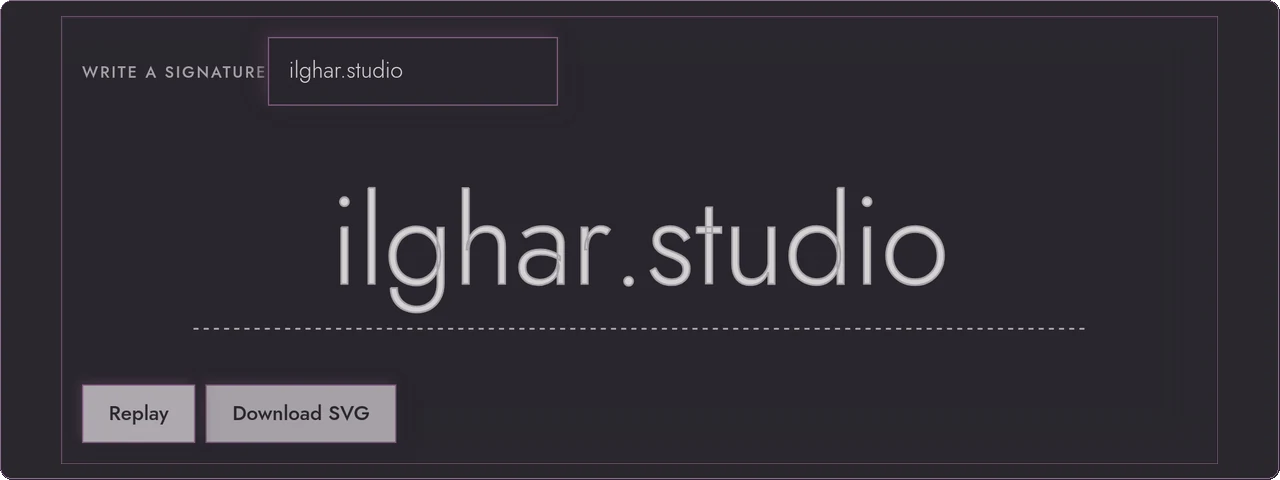
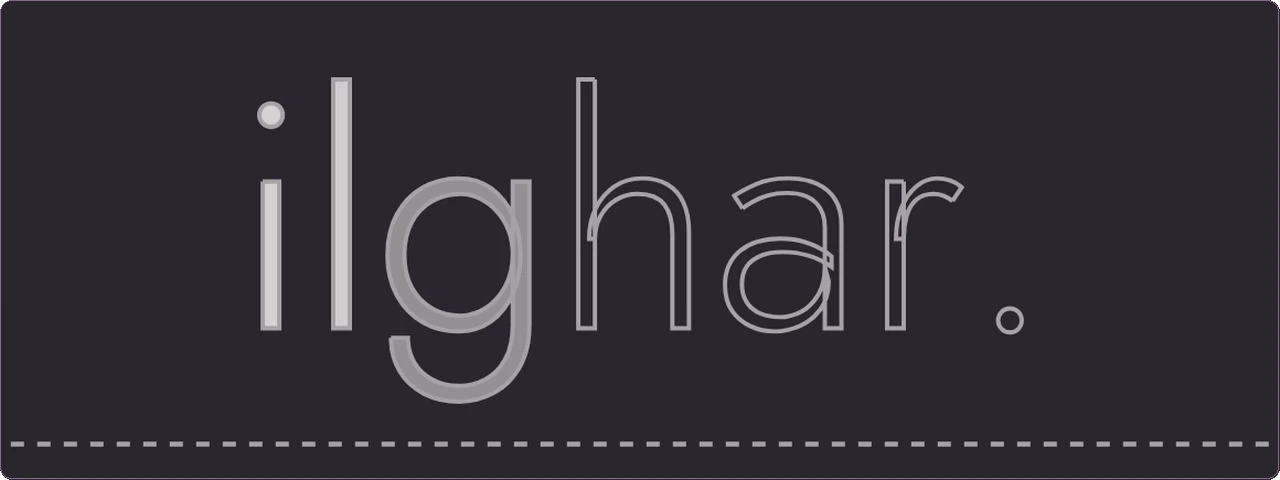
docs: crop the README hero to the mid-stroke signature
The 1280x480 light and dark lead images now show the live
ilghar.studio letterforms mid-draw at about 60% of the width,
instead of the full empty field. The pair still differs and has
no blue.

Changed region(s): [[0.0, 0.125, 1.0, 0.9375], [0.75, 0.625, 0.8125, 0.7188]]

diff --git a/README.md b/README.md
@@ -2,7 +2,7 @@
   <a href="https://ilghar.github.io/signature-typography/">
     <picture>
       <source media="(prefers-color-scheme: dark)" srcset="docs/hero/hero-dark.webp">
-      <img src="docs/hero/hero-light.webp" width="100%" alt="The live signature field after typing ilghar.studio, with every letter traced and settled in ink, and Replay and Download SVG controls.">
+      <img src="docs/hero/hero-light.webp" width="100%" alt="The live signature mid-stroke: the first letters of ilghar.studio drawing as SVG strokes on the writing line.">
     </picture>
   </a>
 </p>
